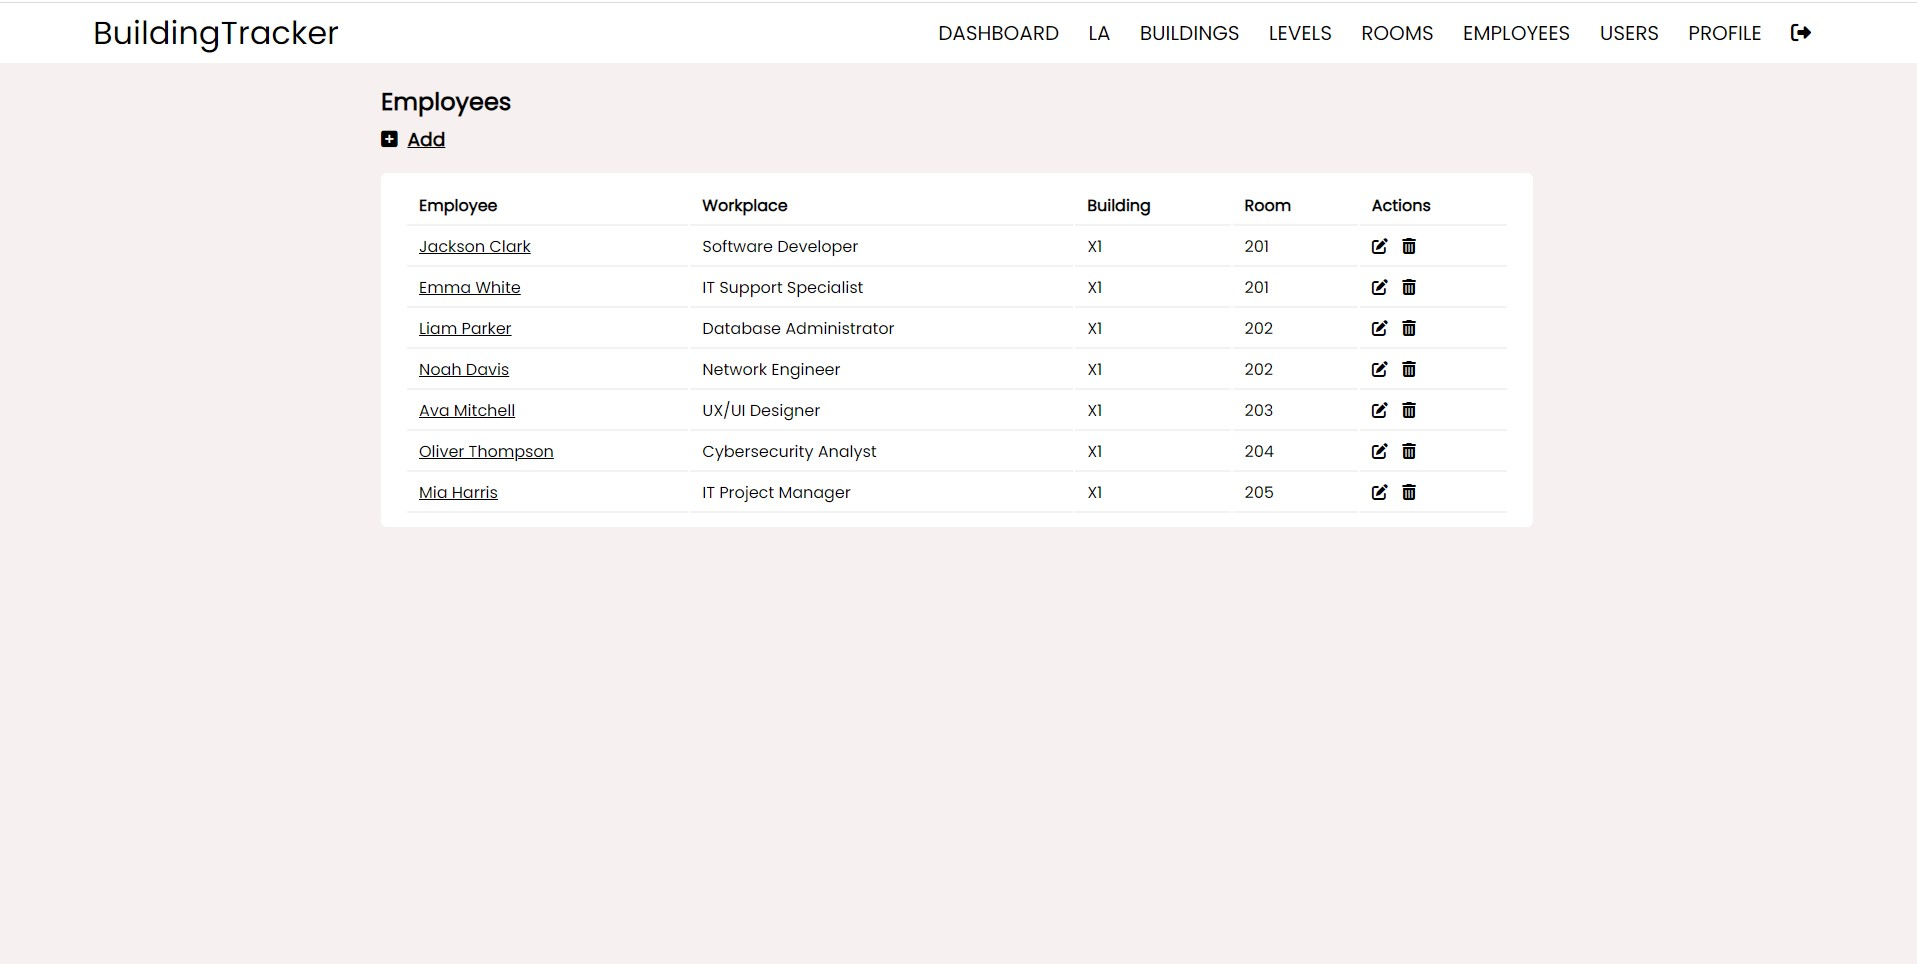
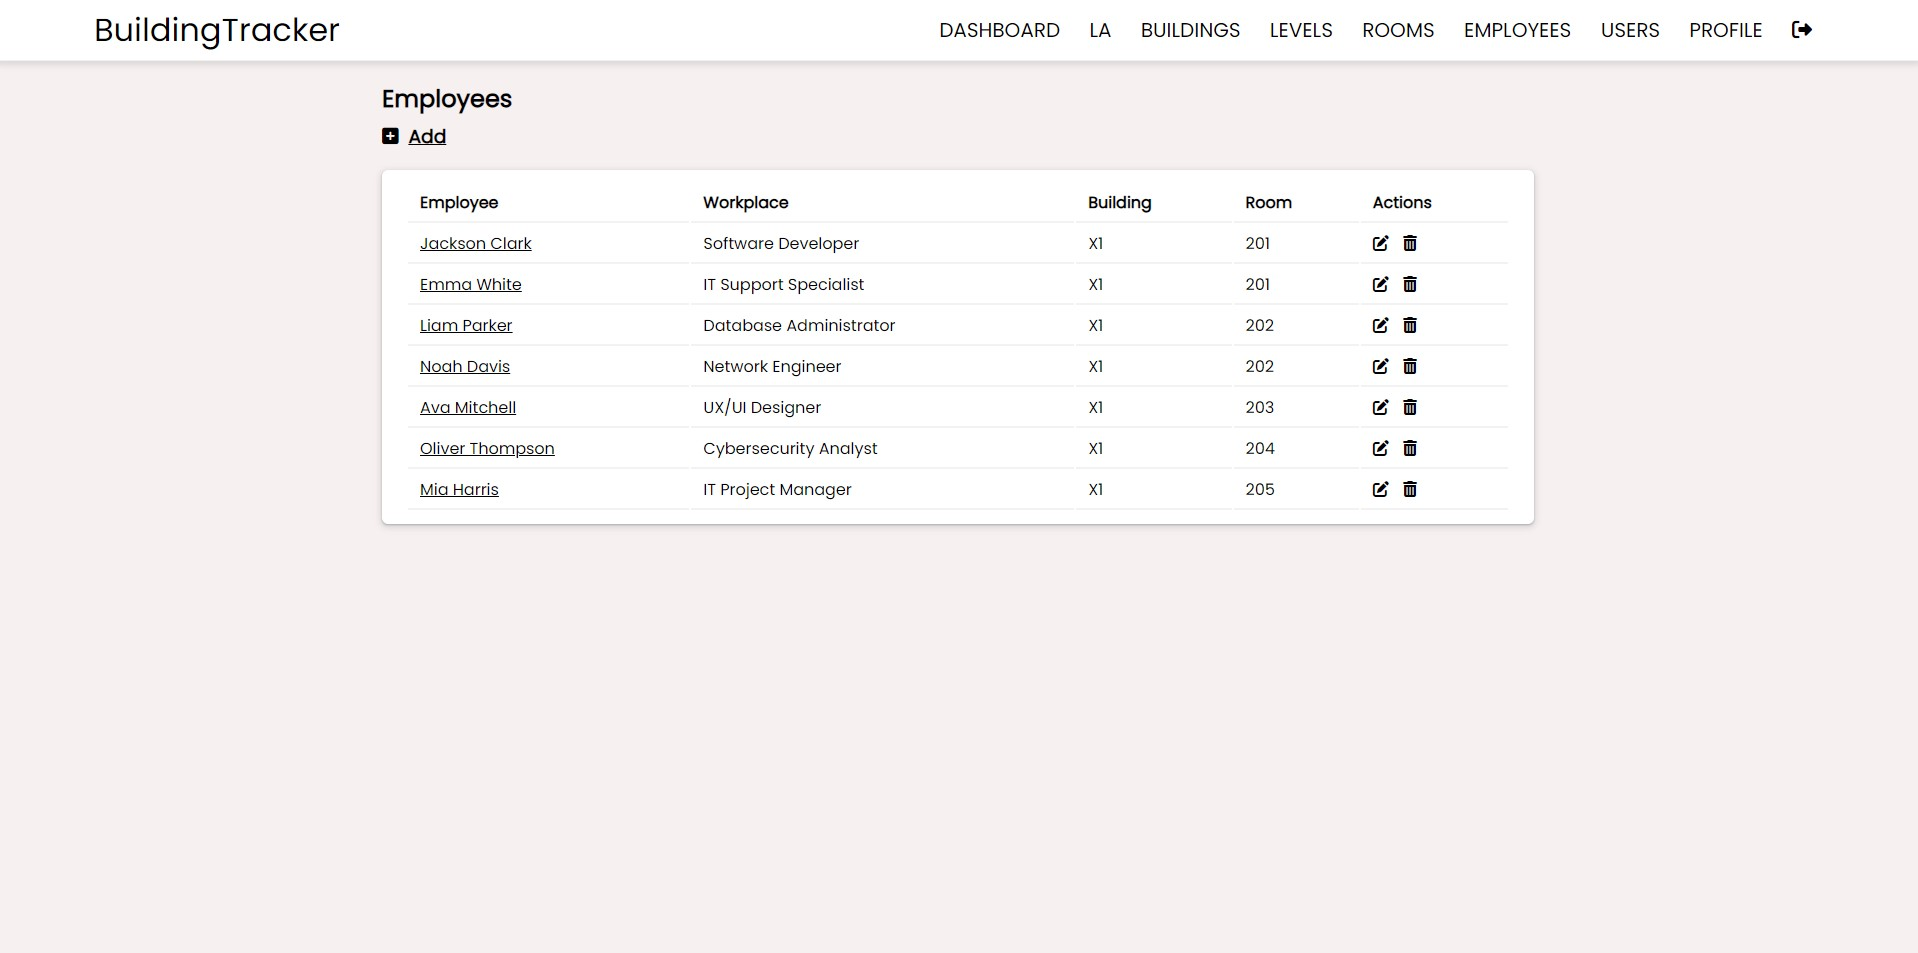
update level access page

diff --git a/src/main/resources/templates/level/la.html b/src/main/resources/templates/level/la.html
@@ -55,75 +55,98 @@
       getLevelAccessById(id);
     });
   });
+
 </script>
 
 <body>
 <div class="container">
-  <div th:replace="~{fragments:: header} " class="header"></div>
+    <div th:replace="~{fragments:: header} " class="header"></div>
 
-  <div class="content">
-    <div class="title">
-      <h2 class="info">Level access</h2>
-      <h3>
-        Simulate entry/exit employee to level
-      </h3>
+    <div class="content">
+        <div class="title">
+            <h2 class="info">Level access</h2>
+            <h3>
+                Simulate entry/exit employee to level
+            </h3>
+        </div>
+
+        <div class="la-container">
+            <div class="la-form">
+                <h4>Entry</h4>
+                <form method="post" action="/la/entry">
+                    <div class="form-input">
+                        <label>Employee:</label>
+                        <select name="empId">
+                            <option th:each="e: ${entryEmp}" th:value="${e.id}" th:text="${e.name}"></option>
+                        </select>
+                    </div>
+                    <div class="form-input">
+                        <label>Building:</label>
+                        <select id="buildSelect">
+                            <option th:each="b: ${builds}" th:value="${b.id}" th:text="${b.name}"></option>
+
+                        </select>
+                    </div>
+                    <div class="form-input">
+                        <label>Level:</label>
+                        <select name="levelId" id="levelSelect">
+                        </select>
+                    </div>
+                    <div class="form-button">
+                        <button type="submit">Save</button>
+                        <button class="cancel" type="reset">Cancel</button>
+                    </div>
+                </form>
+            </div>
+
+            <div class="la-form">
+                <h4>Exit</h4>
+                <form action="/la/exit" method="post">
+                    <div class="form-input">
+                        <label>Employee:</label>
+                        <select id="empExitSelect" name="exitId">
+                            <option th:each="e: ${exitLa}" th:value="${e.id}" th:text="|${e.employee.name}|"></option>
+                        </select>
+                    </div>
+                    <div class="form-input">
+                        <label>Building:</label>
+                        <input id="exitBuild" type="text" disabled>
+                    </div>
+                    <div class="form-input">
+                        <label>Level:</label>
+                        <input id="exitLevel" type="text" disabled>
+
+                    </div>
+                    <div class="form-button">
+                        <button type="submit">Save</button>
+                        <button class="cancel" type="reset">Cancel</button>
+                    </div>
+                </form>
+            </div>
+        </div>
+
+        <h3>Employees inside building</h3>
+        <div class="details">
+            <table>
+                <thead>
+                <tr>
+                    <th>Employee</th>
+                    <th>Building</th>
+                    <th>Level</th>
+                    <th>Entry time</th>
+                </tr>
+                </thead>
+                <tbody>
+                <tr th:each="la: ${exitLa}">
+                    <td th:text="${la.employee.name}"></td>
+                    <td th:text="${la.level.building.name}"></td>
+                    <td th:text="${la.level.level}"></td>
+                    <td th:text="${la.getEntryTimeFormat}"></td>
+                </tr>
+                </tbody>
+            </table>
+        </div>
     </div>
-
-    <div class="la-container">
-      <div class="la-form">
-        <h4>Entry</h4>
-        <form method="post" action="/la/entry">
-          <div class="form-input">
-            <label>Employee:</label>
-            <select name="empId">
-              <option th:each="e: ${entryEmp}" th:value="${e.id}" th:text="${e.name}"></option>
-            </select>
-          </div>
-          <div class="form-input">
-            <label>Building:</label>
-            <select id="buildSelect">
-              <option th:each="b: ${builds}" th:value="${b.id}" th:text="${b.name}"></option>
-
-            </select>
-          </div>
-          <div class="form-input">
-            <label>Level:</label>
-            <select name="levelId" id="levelSelect">
-            </select>
-          </div>
-          <div class="form-button">
-            <button type="submit">Save</button>
-            <button class="cancel" type="reset">Cancel</button>
-          </div>
-        </form>
-      </div>
-
-      <div class="la-form">
-        <h4>Exit</h4>
-        <form action="/la/exit" method="post">
-          <div class="form-input">
-            <label>Employee:</label>
-            <select id="empExitSelect" name="exitId">
-              <option th:each="e: ${exitLa}" th:value="${e.id}" th:text="|${e.employee.name}|"></option>
-            </select>
-          </div>
-          <div class="form-input">
-            <label>Building:</label>
-            <input id="exitBuild" type="text" disabled>
-          </div>
-          <div class="form-input">
-            <label>Level:</label>
-            <input id="exitLevel" type="text" disabled>
-
-          </div>
-          <div class="form-button">
-            <button type="submit">Save</button>
-            <button class="cancel" type="reset">Cancel</button>
-          </div>
-        </form>
-      </div>
-    </div>
-  </div>
 </div>
 </body>
 

diff --git a/src/main/resources/static/css/style.css b/src/main/resources/static/css/style.css
@@ -45,6 +45,8 @@ a i {
     display: flex;
     justify-content: space-between;
     align-items: center;
+    box-shadow: rgba(60, 64, 67, 0.15) 0px 2px 6px 2px;
+
 }
 
 .logo {
@@ -108,6 +110,12 @@ a i {
     min-height: 60px;
     background-color: #fff;
     padding: 12px 24px;
+    box-shadow: rgba(60, 64, 67, 0.3) 0px 1px 2px 0px, rgba(60, 64, 67, 0.15) 0px 2px 6px 2px;
+}
+
+.room{
+    box-shadow: rgba(60, 64, 67, 0.15) 0px 2px 6px 2px;
+    margin-bottom: 15px;
 }
 
 .loginForm {
@@ -119,6 +127,11 @@ a i {
 .details .line p,
 .loginForm .line:first-child {
     border-bottom: 2px solid #F6F1F1;
+}
+
+.details {
+   max-height: 70vh;
+   overflow: auto;
 }
 
 .room p a {
@@ -182,7 +195,6 @@ section {
 
 .details table, .child table{
     width: 100%;
-
 }
 
 .details table th,
@@ -321,6 +333,8 @@ section {
   min-height: 60px;
   background-color: #fff;
   padding: 12px 24px;
+  box-shadow: rgba(60, 64, 67, 0.3) 0px 1px 2px 0px, rgba(60, 64, 67, 0.15) 0px 2px 6px 2px;
+
 }
 
 .parent{

diff --git a/src/main/java/com/buildingtracker/mvc/model/level/LevelAccess.java b/src/main/java/com/buildingtracker/mvc/model/level/LevelAccess.java
@@ -7,6 +7,7 @@ import org.hibernate.annotations.OnDelete;
 import org.hibernate.annotations.OnDeleteAction;
 
 import java.time.LocalDateTime;
+import java.time.format.DateTimeFormatter;
 
 @Entity
 @Table(name = "Level_access")
@@ -79,5 +80,13 @@ public class LevelAccess {
 
     public void setExitTime(LocalDateTime exitTime) {
         this.exitTime = exitTime;
+    }
+
+    public String getEntryTimeFormat(){
+        return entryTime.format(DateTimeFormatter.ofPattern("yyyy-MM-dd HH:mm:ss"));
+    }
+
+    public String getExitTimeFormat(){
+        return entryTime.format(DateTimeFormatter.ofPattern("yyyy-MM-dd HH:mm:ss"));
     }
 }
